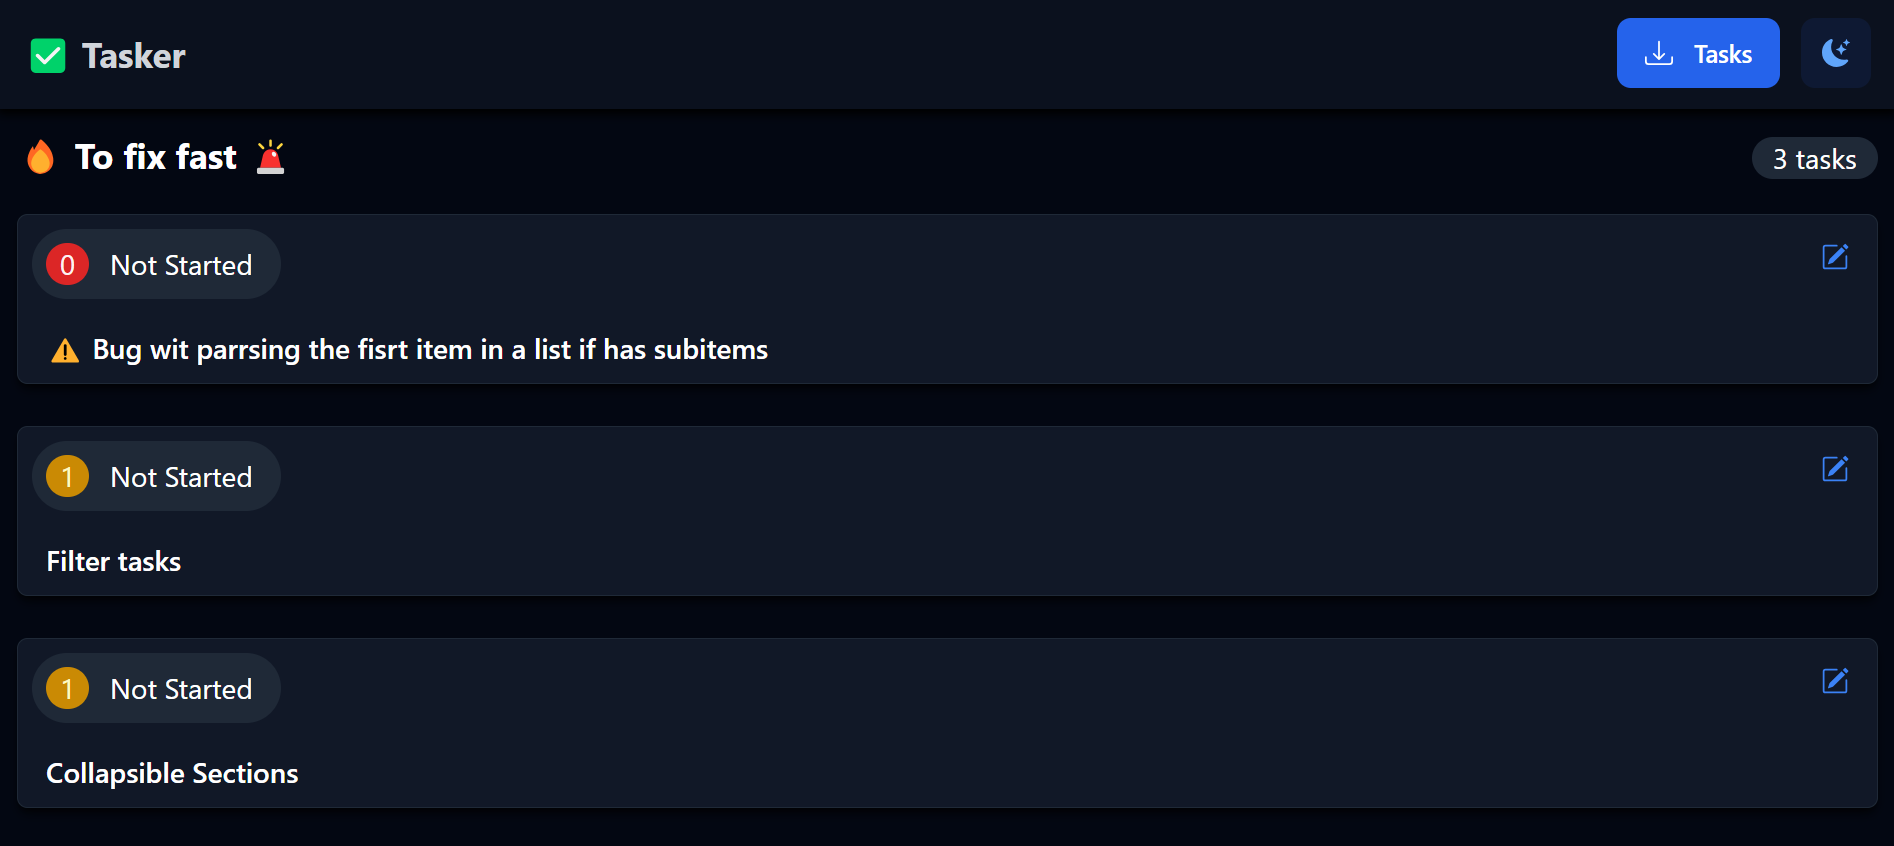
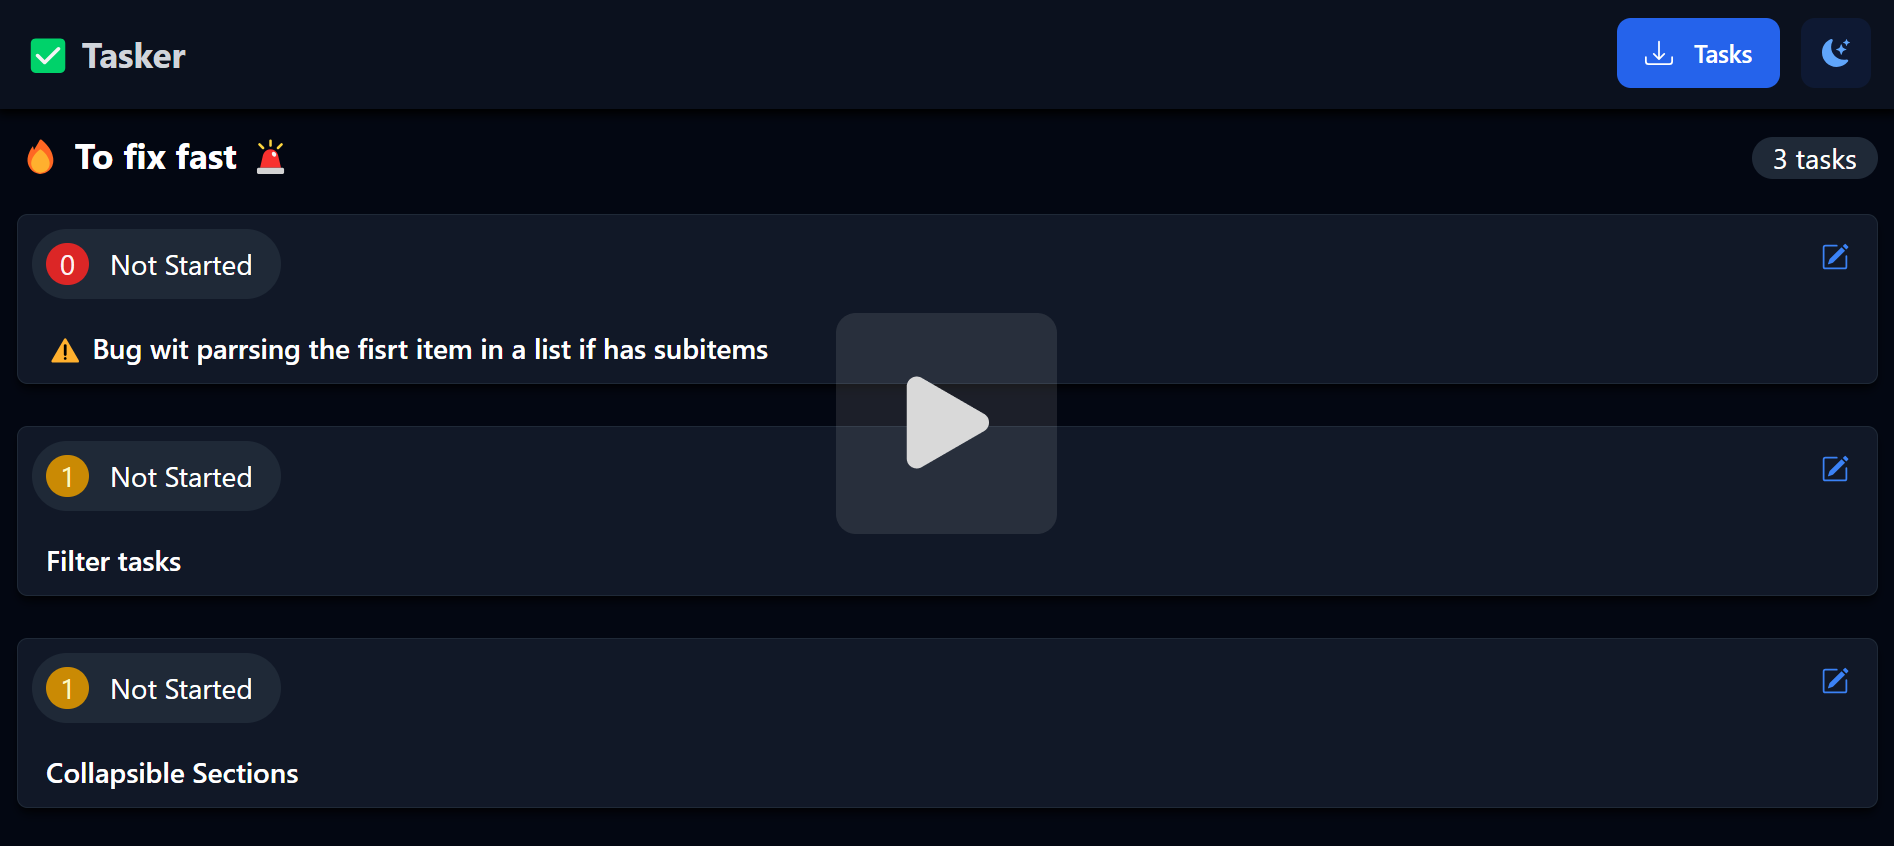
add video

Changed region(s): [[0.4361, 0.4303, 0.5607, 0.5532]]

diff --git a/README.md b/README.md
@@ -8,7 +8,9 @@ Introducing Tasker, the ultimate solution to streamline your workflow. Tasker ef
 
 Ready to make microtasking easy? Try Tasker now and experience the difference!
 
-![sample of tasks](./src/screenshot.png)
+[![sample of tasks](./src/screenshot.png)](https://youtu.be/oV8gtK-cxoo)
+
+[_check how to video on youtube_](https://youtu.be/oV8gtK-cxoo)
 
 ## 😇 Why?
 
